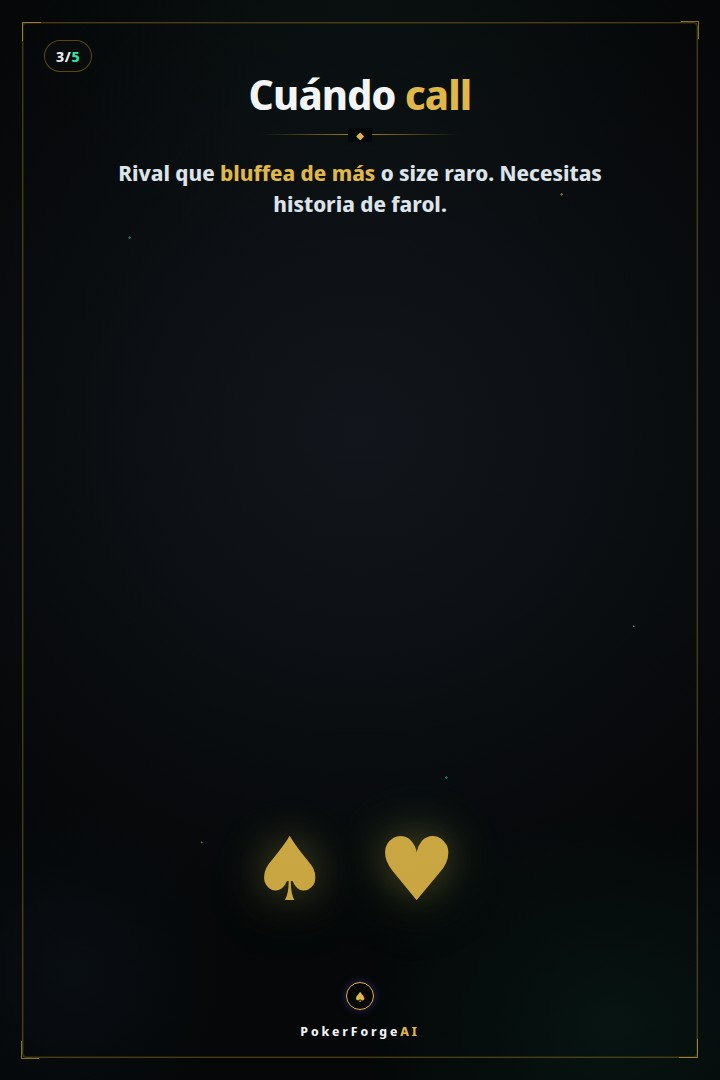
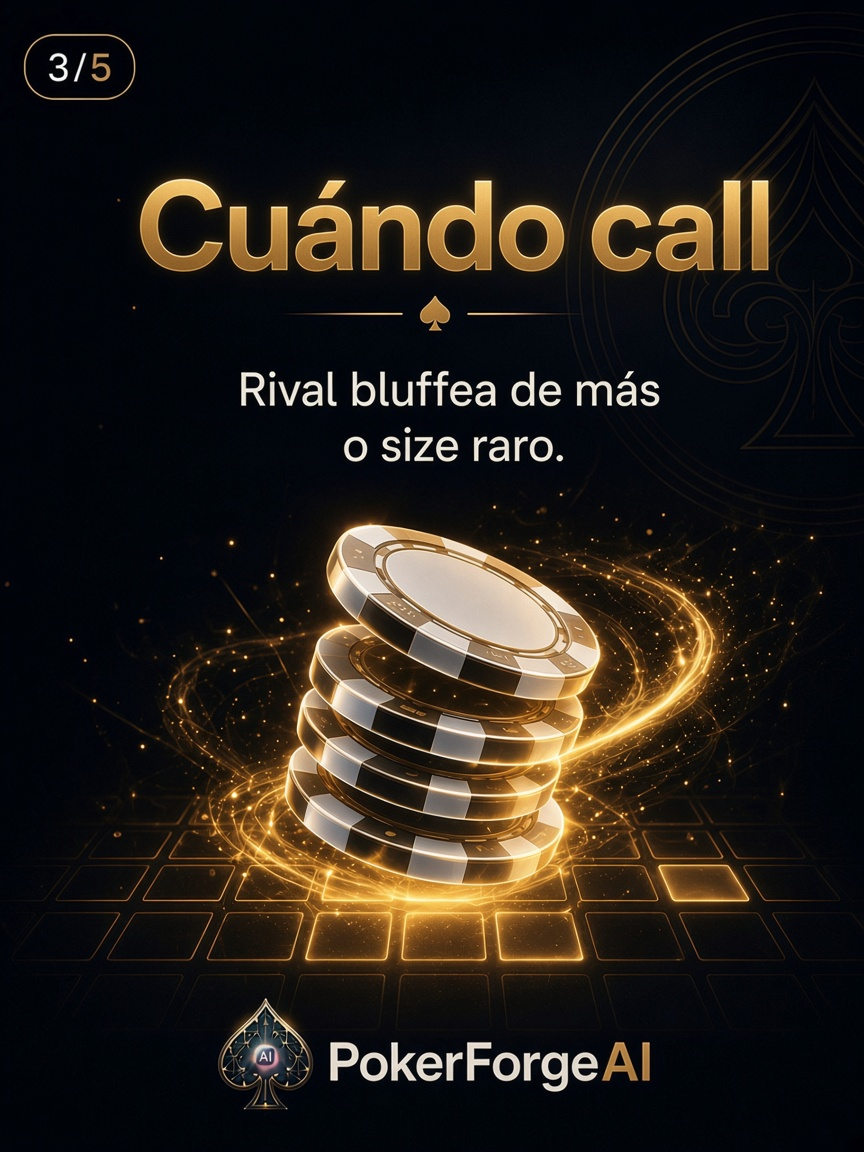
feat(marketing): premium AI style for B32–B46 edu carousels
Replace HTML Playwright fallbacks with 864×1152 premium slides
matching B31 Steal look (ornate AI spade, 3D chips, gold glow).

diff --git a/marketing/instagram/03-carruseles-edu/CARRUSELES_B32_B46.md b/marketing/instagram/03-carruseles-edu/CARRUSELES_B32_B46.md
@@ -5,8 +5,9 @@ Estilo: **letras grandes** premium (mismo formato que B22–B31): título blanco
 
 Hashtags: `#pokertips #pokerstrategy #GTO #pokerespañol #pokerforgeai #estudiopoker`
 
-JPG canónicos: `edu-b32-*` … `edu-b46-*` en esta carpeta.  
-Fallback HTML (no sobrescribe sin `--force`): `node tools/instagram-edu-carruseles-b32-b46.js`
+JPG canónicos **premium IA** (864×1152, estilo B31 Steal): `edu-b32-*` … `edu-b46-*` en esta carpeta.  
+Fallback HTML (no sobrescribe premium sin `--force`): `node tools/instagram-edu-carruseles-b32-b46.js`  
+Nota: en slides CTA el botón visual usa «EMPIEZA AHORA»; el caption sigue con «5 manos gratis» / link en bio.
 
 **Terminología:** acciones y jerga en inglés (`call`, `fold`, `raise`, `check`, `bet`, `squeeze`…). Nunca *llamar* por call; si hace falta verbo ES → *pagar*.
 
